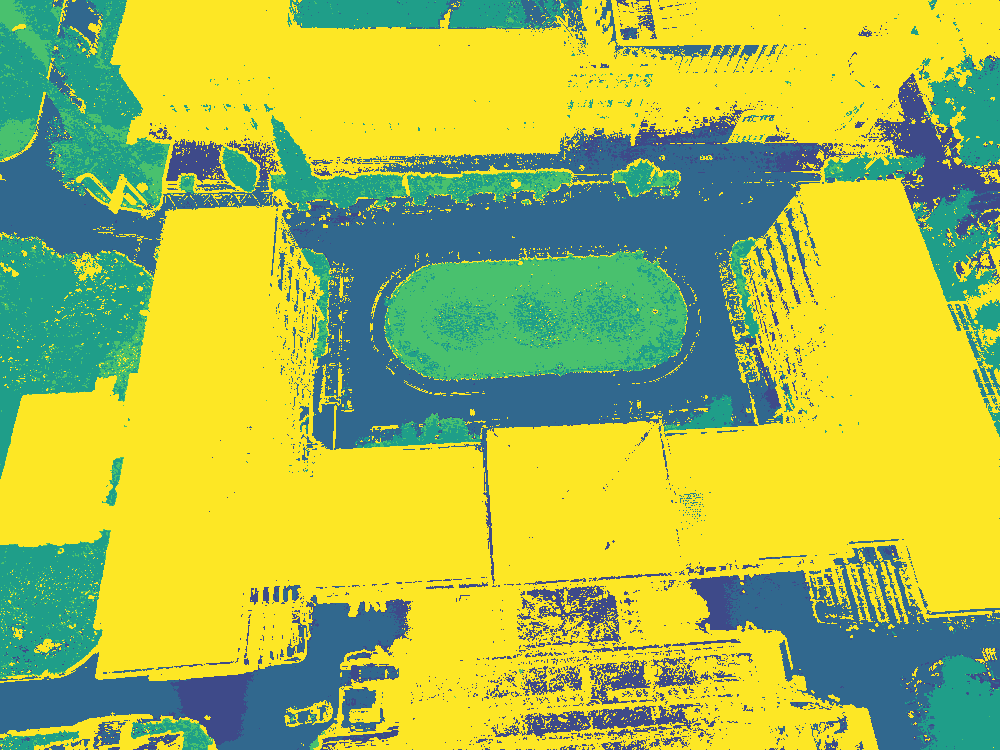
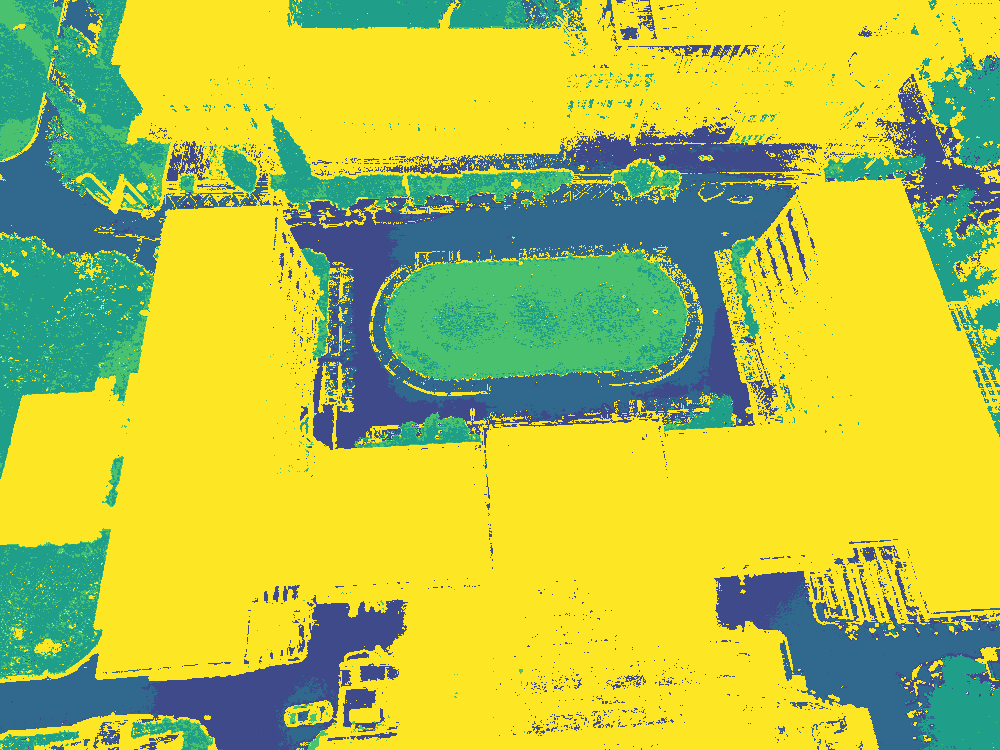
emmm

diff --git a/model.py b/model.py
@@ -10,7 +10,6 @@ from satup.model import SatUp
 ROOT = os.path.dirname(os.path.abspath(__file__))
 
 
-
 class DenseClip(nn.Module):
     def __init__(
         self,
@@ -21,11 +20,18 @@ class DenseClip(nn.Module):
         jit: bool = False,
         only_clear: bool = False,
         upsampler: str = "gfup",
+        # ResCLIP 相关参数
+        use_resclip: bool = True,
+        resclip_alpha: float = 0.5,  # 残差融合权重
+        resclip_layer: int = -2,     # 提取中间层 (-2 表示倒数第二层)
     ):
         super().__init__()
         self.device = torch.device(device)
         self.model_name = name
         self.only_clear = only_clear
+        self.use_resclip = use_resclip
+        self.resclip_alpha = resclip_alpha
+        self.resclip_layer = resclip_layer
 
         # 1. 加载 OpenCLIP 模型
         pretrained_tag = "openai" if "laion" not in name else "laion2b_s34b_b88k"
@@ -53,14 +59,12 @@ class DenseClip(nn.Module):
                 .eval()
             )
         elif upsampler == "satup":
-            # 直接使用 SatUp，不再通过 Wrapper，确保与 infer.py 调用方式一致
             self.up = SatUp(dim=128, v_dim=768).to(self.device)
             ckpt = torch.load("satup.pth", map_location=self.device)
             self.up.load_state_dict(ckpt, strict=True)
             self.up.eval()
         elif upsampler == "gsu":
             self.up = GaussianUpsamplerWrapper()
-
 
         # 4. 视觉投影层 (1x1 conv)
         self.v_proj = nn.Conv2d(self.feat_dim, self.embed_dim, 1).to(self.device)
@@ -79,15 +83,15 @@ class DenseClip(nn.Module):
 
         # 6. 初始化零样本分类器
         self._init_zeroshot_classifier()
+
     def extract_patch_features(self, images: torch.Tensor):
         """
         只提取 ClearCLIP 去偏后的 Patch 级特征，不做任何上采样和投影。
-        返回: [B, C, grid_h, grid_w]  例如 [B, 768, 14, 14]
+        返回: [B, C, grid_h, grid_w]
         """
         images = images.to(self.device)
-        lr_features = self._extract_clearclip_features(images)  # [B, C, grid_h, grid_w]
+        lr_features = self._extract_clearclip_features(images)
         return lr_features
-        
 
     @torch.no_grad()
     def _init_zeroshot_classifier(self):
@@ -109,7 +113,7 @@ class DenseClip(nn.Module):
 
     def _extract_clearclip_features(self, img: torch.Tensor):
         """
-        从输入图像提取 ClearCLIP 去偏特征 (patch - cls)
+        从输入图像提取特征。如果启用 ResCLIP，则在最后一层融合中间层的互相关注意力。
         返回: [B, feat_dim, grid_h, grid_w]
         """
         B, C, H, W = img.shape
@@ -140,12 +144,45 @@ class DenseClip(nn.Module):
         x_tokens = x_tokens + new_pos_embed
         x_tokens = self.visual.ln_pre(x_tokens)
 
-        # 2. Transformer 前 L-1 层
+        # 2. Transformer 层
         blocks = self.visual.transformer.resblocks
-        for i in range(len(blocks) - 1):
-            x_tokens = blocks[i](x_tokens)
+        num_layers = len(blocks)
 
-        # 3. 最后一层 Self-Self Attention (ClearCLIP)
+        # 用于存储中间层的互相关注意力 (用于 ResCLIP)
+        intermediate_attn = None
+
+        # 2.1 前向传播至倒数第二层，并提取中间层注意力
+        for i in range(num_layers - 1):
+            # 对于倒数第二层，我们需要提取其 Query-Key 注意力
+            if self.use_resclip and i == num_layers + self.resclip_layer:
+                # 手动计算该层的 Query-Key 注意力
+                block = blocks[i]
+                # 获取该层的 Q 和 K
+                # 注意：这里需要进入 block 内部计算，但为了不破坏原有结构，我们复制一份计算逻辑
+                # 更简洁的方式是直接使用 block 的 forward，但我们需要的是注意力矩阵，而不是输出
+                # 这里采用与原始 CLIP 一致的计算方式
+                x_norm_mid = block.ln_1(x_tokens)
+                attn_mid = block.attn
+                qkv_mid = F.linear(x_norm_mid, attn_mid.in_proj_weight, attn_mid.in_proj_bias)
+                q_mid, k_mid, _ = qkv_mid.chunk(3, dim=-1)
+                
+                B_mid, N_mid, D_mid = q_mid.shape
+                num_heads_mid = attn_mid.num_heads
+                head_dim_mid = D_mid // num_heads_mid
+                
+                q_mid = q_mid.view(B_mid, N_mid, num_heads_mid, head_dim_mid).transpose(1, 2)
+                k_mid = k_mid.view(B_mid, N_mid, num_heads_mid, head_dim_mid).transpose(1, 2)
+                
+                # 计算 Query-Key 互相关注意力 (非最终层具有空间定位能力)
+                mid_attn_matrix = (q_mid @ k_mid.transpose(-2, -1)) * (head_dim_mid ** -0.5)
+                intermediate_attn = mid_attn_matrix.softmax(dim=-1)
+                
+                # 继续正常的前向传播
+                x_tokens = block(x_tokens)
+            else:
+                x_tokens = blocks[i](x_tokens)
+
+        # 3. 最后一层 Self-Self Attention (ClearCLIP) + ResCLIP 融合
         last_block = blocks[-1]
         x_norm = last_block.ln_1(x_tokens)
         attn = last_block.attn
@@ -156,12 +193,36 @@ class DenseClip(nn.Module):
         num_heads = attn.num_heads
         head_dim = D // num_heads
 
-        q = q.view(B, N, num_heads, head_dim).transpose(1, 2)
+        q = q.view(B, N, num_heads, head_dim).transpose(1, 2)  # [B, heads, N, hd]
         v = v.view(B, N, num_heads, head_dim).transpose(1, 2)
 
+        # 3.1 计算原始的 Query-Query 自注意力 (ClearCLIP)
         attn_matrix = (q @ q.transpose(-2, -1)) * (head_dim ** -0.5)
-        attn_matrix = attn_matrix.softmax(dim=-1)
-        attn_out = (attn_matrix @ v).transpose(1, 2).reshape(B, N, -1)
+        attn_matrix_qq = attn_matrix.softmax(dim=-1)
+
+        # 3.2 如果启用 ResCLIP，进行残差融合
+        if self.use_resclip and intermediate_attn is not None:
+            # 中间层注意力是 [B, heads_mid, N, N]，需要确保与当前注意力形状一致
+            # 如果中间层的 head 数量不同，需要进行平均或投影
+            if intermediate_attn.shape[1] != num_heads:
+                # 如果 heads 数量不同，在 head 维度进行平均
+                intermediate_attn = intermediate_attn.mean(dim=1, keepdim=True)
+                intermediate_attn = intermediate_attn.expand(-1, num_heads, -1, -1)
+            
+            # 将中间层注意力移到与当前张量相同的设备和数据类型
+            intermediate_attn = intermediate_attn.to(device=attn_matrix_qq.device, dtype=attn_matrix_qq.dtype)
+            
+            # 残差融合: 新的注意力 = (1 - alpha) * 最后层注意力 + alpha * 中间层注意力
+            # 注意：这里使用残差连接的思想，融合两种注意力
+            attn_matrix_fused = (1 - self.resclip_alpha) * attn_matrix_qq + self.resclip_alpha * intermediate_attn
+            # 重新归一化
+            attn_matrix_fused = attn_matrix_fused / (attn_matrix_fused.sum(dim=-1, keepdim=True) + 1e-8)
+            
+            # 使用融合后的注意力对 Value 进行加权
+            attn_out = (attn_matrix_fused @ v).transpose(1, 2).reshape(B, N, -1)
+        else:
+            # 原始 ClearCLIP 路径
+            attn_out = (attn_matrix_qq @ v).transpose(1, 2).reshape(B, N, -1)
 
         x_feat = F.linear(attn_out, attn.out_proj.weight, attn.out_proj.bias)
         x_feat = self.visual.ln_post(x_feat)
@@ -178,19 +239,15 @@ class DenseClip(nn.Module):
     def _stem(self, x, hr_guide: Optional[torch.Tensor] = None):
         B, C, H, W = x.shape
 
-        # --- 针对 SatUp 的特殊处理：与 infer.py 完全一致 ---
+        # --- 针对 SatUp 的特殊处理 ---
         if isinstance(self.up, SatUp):
-            # 1. 下采样输入图像
             lr_img = x
-            # 2. 从下采样图像提取 ClearCLIP 特征
             lr_features = self._extract_clearclip_features(lr_img)
-            # 3. 调用 SatUp 上采样至原始尺寸
             up_features = self.up(lr_img, lr_features, output_size=(H, W))
             return up_features
 
-        # 注意：原有逻辑是从高分辨率图像 x 提取特征，然后上采样
-        lr_features = self._extract_clearclip_features(x)  # 高分辨率下的低分辨率特征图
-        # guide = hr_guide if hr_guide is not None else x
+        # 通用流程
+        lr_features = self._extract_clearclip_features(x)
         guide = x
 
         if self.up is not None:

diff --git a/infer.py b/infer.py
@@ -197,7 +197,7 @@ def infer_single_image(
             ax[0].set_title("Original Image")
             ax[0].axis("off")
             ax[1].imshow(seg_result.permute(1, 2, 0).numpy())
-            ax[1].set_title("GLA + SatUp (smoothed)")
+            ax[1].set_title("ResQQ + SatUp")
             ax[1].axis("off")
             patches = [mpatches.Patch(color=legend_colors[i], label=classnames[i]) for i in range(C)]
             fig.legend(handles=patches, loc="center right", title="Land Cover Classes")
